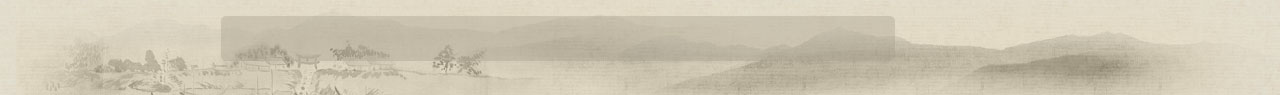
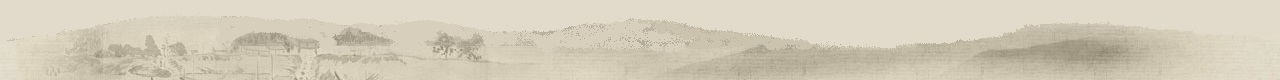
fitted footer and header bg images

diff --git a/public/css/main.css b/public/css/main.css
@@ -70,6 +70,7 @@ p {
 #brand  p{
 	font-size: 18pt;
 	margin: 0 0 0 0;
+	padding-left:30px;
 }	
 
 .logo {
@@ -291,6 +292,9 @@ p {
 	}
 	.showCategoriesField{
 		display: none;
+	}
+	#brand  p{
+		padding-left:35px;
 	}
 }
 
